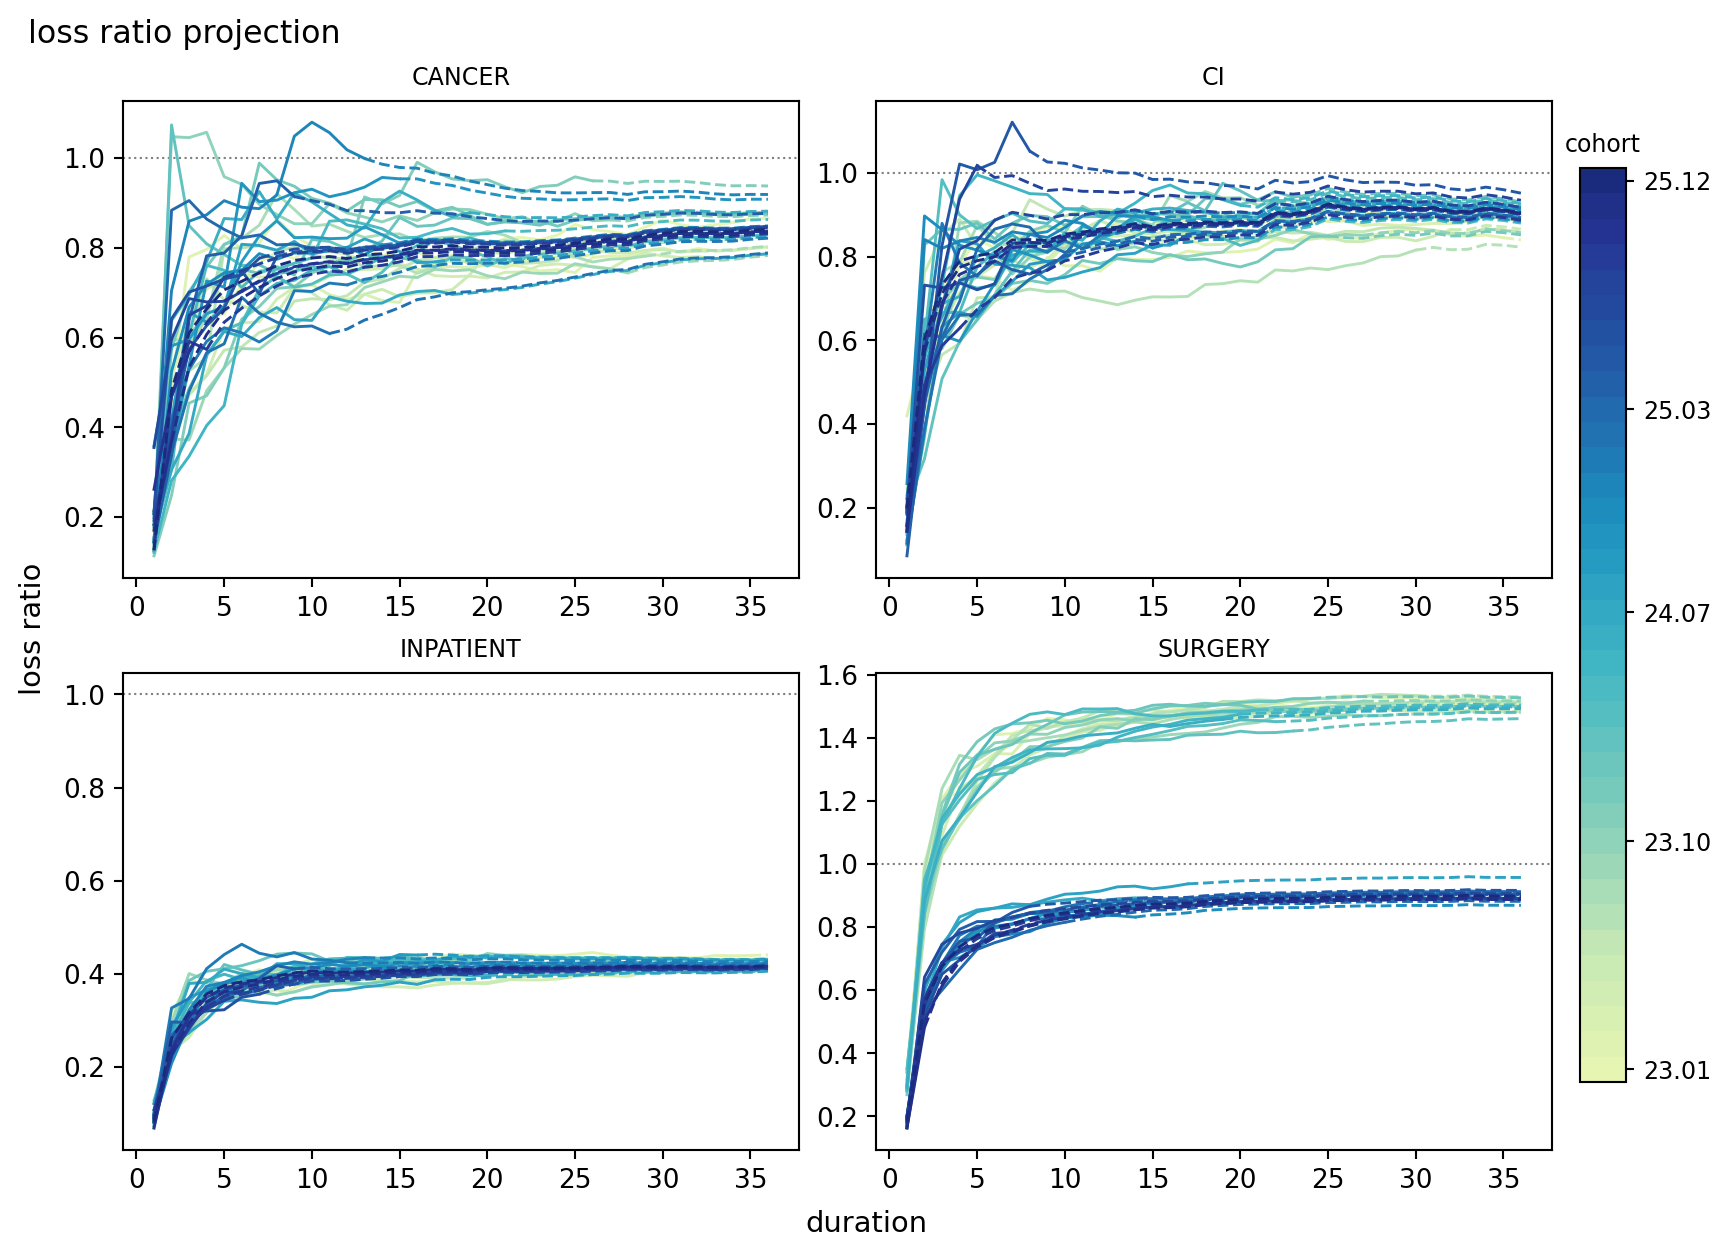
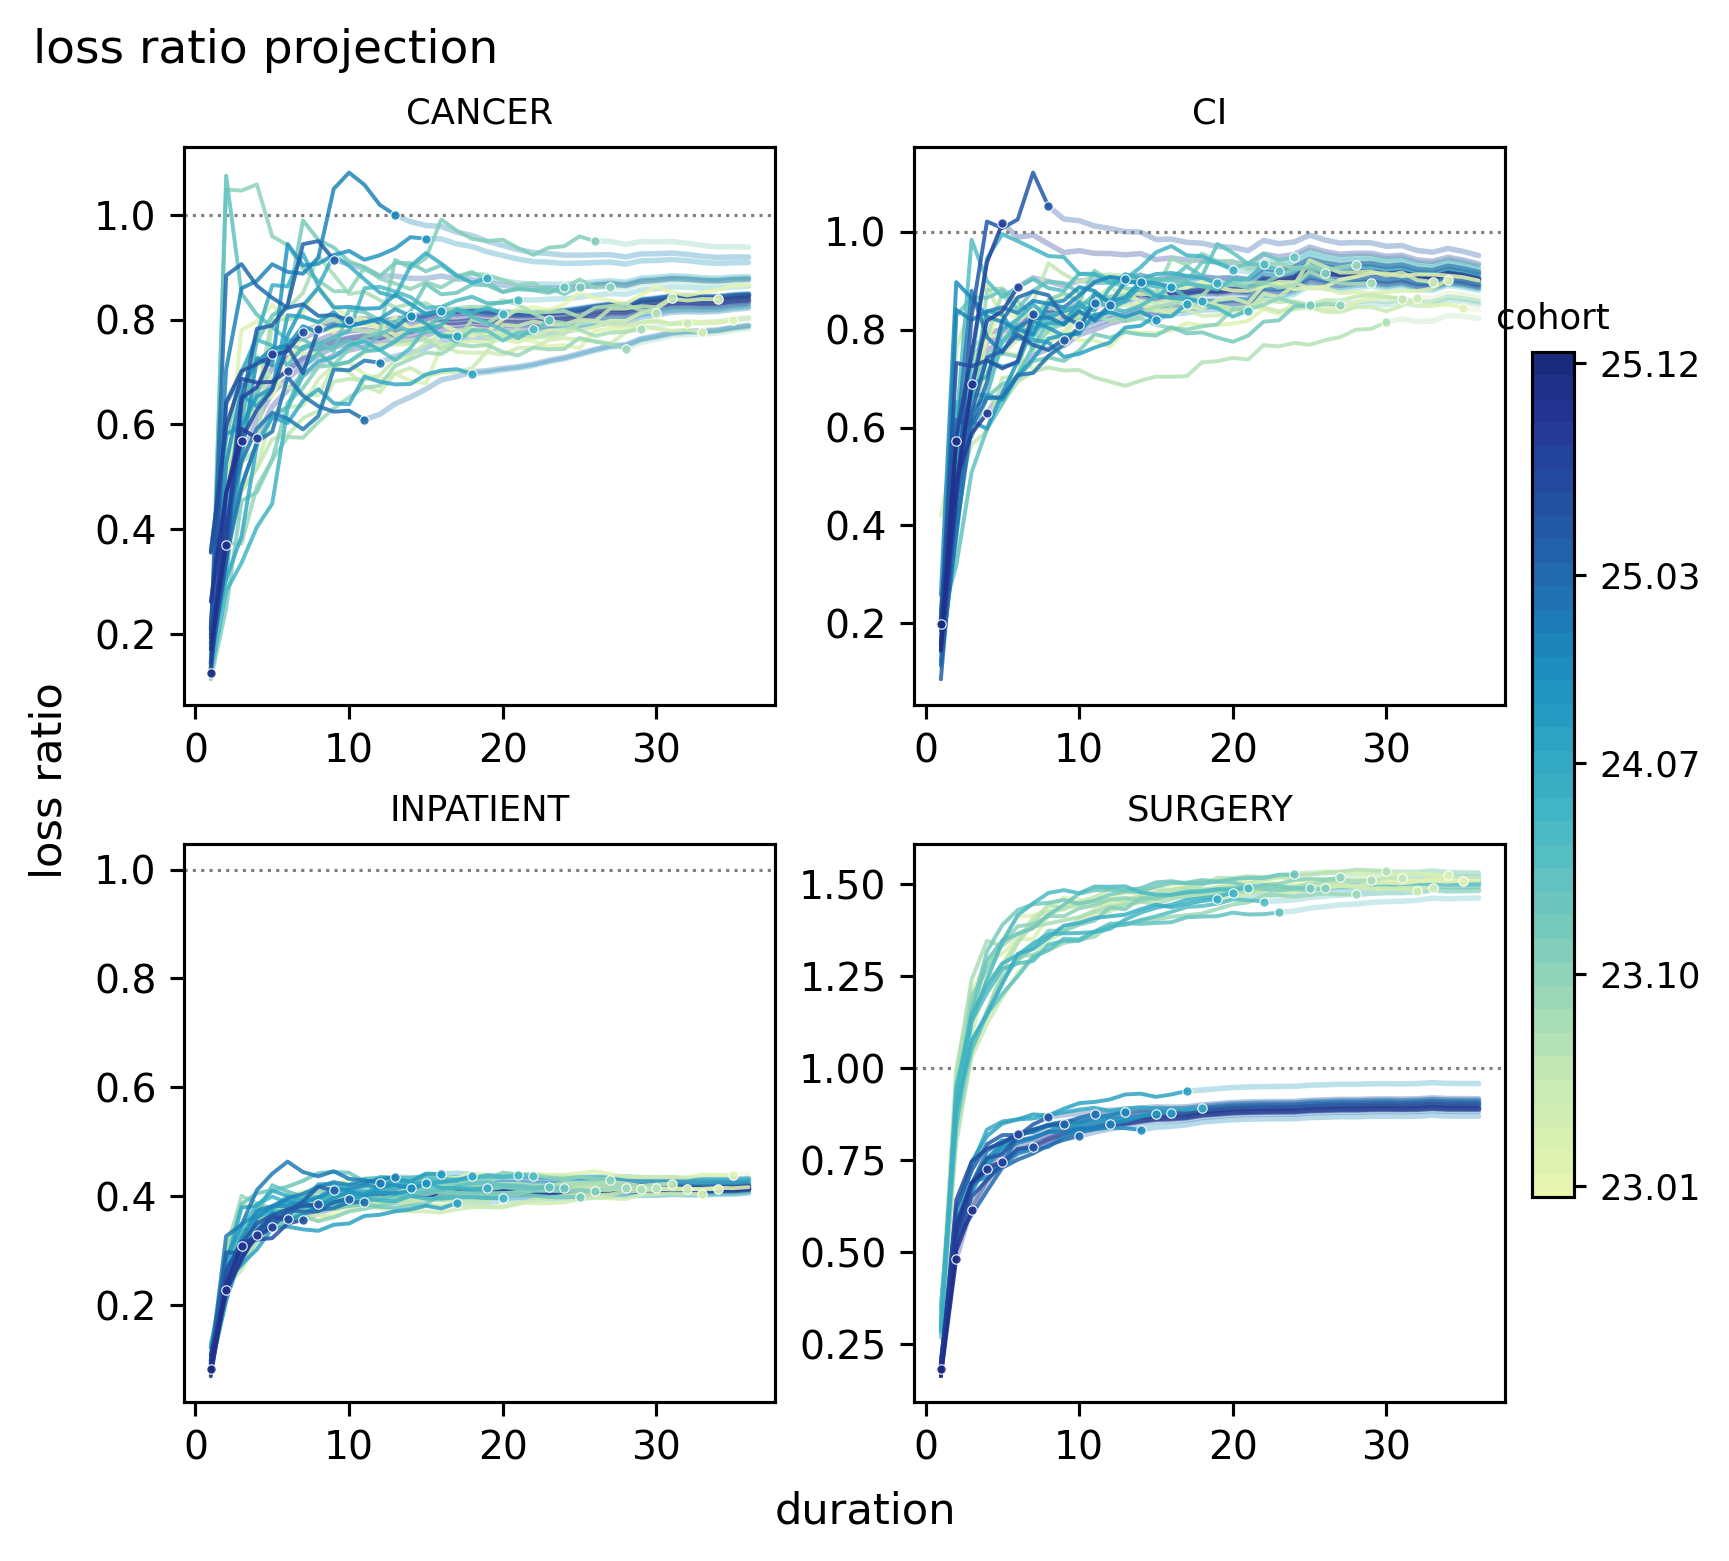
style: draw the projected tail as a faded continuation with a frontier dot
The per-cohort projection plot drew the projected portion dashed, which piled
into a busy texture across many overlapping cohorts. Draw it as a translucent
same-colour continuation with a small frontier dot marking where observation
ends, so the projection ghosts forward cleanly while the observed/projected
boundary stays legible.

diff --git a/src/lossratio/_plot/fit.py b/src/lossratio/_plot/fit.py
@@ -2,8 +2,9 @@
 
 Per-cohort cumulative-projection trajectories for ``LossFit`` /
 ``PremiumFit`` / ``RatioFit``: x = duration, y = the projected metric, the
-observed portion drawn solid and the projected tail dashed (split on the
-``source`` column), faceted by group. The cohort colour gradient mirrors
+observed portion drawn solid and the projected tail as a translucent
+continuation with a frontier dot (split on the ``source`` column), faceted by
+group. The cohort colour gradient mirrors
 ``Triangle.plot`` so a cohort keeps its colour across facets.
 """
 
@@ -49,7 +50,13 @@ def resolve_fit_metric(
 
 def _draw_fit_cohort(ax: Any, sub: pl.DataFrame, value_col: str, coh_color) -> None:
     """One facet: per-cohort cumulative trajectory, observed solid + projected
-    dashed (joined at the last observed cell)."""
+    as a translucent same-colour continuation, with a small dot marking the
+    observation frontier (where data ends and the projection begins).
+
+    The projected tail is drawn faded rather than dashed: with many overlapping
+    cohorts the dashed tails pile into a busy texture, whereas an alpha-faded
+    continuation ghosts forward cleanly while the frontier dot keeps the
+    observed/projected boundary legible."""
     for g in sub.partition_by("cohort", maintain_order=True):
         gg = g.sort("duration")
         x = gg["duration"].to_numpy()
@@ -59,18 +66,25 @@ def _draw_fit_cohort(ax: Any, sub: pl.DataFrame, value_col: str, coh_color) -> N
 
         obs = np.array([s == "observed" for s in src])
         # Solid over the observed cells (gaps become NaN, which matplotlib skips).
-        ax.plot(x, np.where(obs, y, np.nan), color=color, linewidth=1.1, zorder=2)
+        ax.plot(x, np.where(obs, y, np.nan), color=color, linewidth=1.0,
+                alpha=0.85, zorder=2, solid_capstyle="round")
 
-        # Dashed projected tail, started at the last observed cell so the two
-        # segments join visually.
+        # Faded projected tail, started at the last observed cell so the two
+        # segments join visually; a frontier dot marks the handoff.
         proj = ~obs & np.isfinite(y)
         if proj.any():
             obs_idx = np.where(obs)[0]
             start = int(obs_idx[-1]) if obs_idx.size else int(np.where(proj)[0][0])
             ax.plot(
-                x[start:], y[start:], color=color, linewidth=1.1,
-                linestyle="--", zorder=2,
+                x[start:], y[start:], color=color, linewidth=1.4,
+                alpha=0.32, zorder=1, solid_capstyle="round",
             )
+            if obs_idx.size:
+                ax.plot(
+                    x[obs_idx[-1]], y[obs_idx[-1]], marker="o", markersize=2.4,
+                    color=color, alpha=0.9, zorder=3,
+                    markeredgecolor="white", markeredgewidth=0.3,
+                )
 
 
 def plot_fit(

diff --git a/src/lossratio/estimators/loss.py b/src/lossratio/estimators/loss.py
@@ -1840,7 +1840,8 @@ class LossFit:
         figsize: tuple[float, float] | None = None,
     ) -> Any:
         """Per-cohort cumulative-projection trajectories, faceted by group --
-        the observed portion solid, the projected tail dashed. ``metric`` is
+        the observed portion solid, the projected tail a translucent
+        continuation with a frontier dot. ``metric`` is
         ``"loss"`` (default; cumulative projected loss) or ``"ratio"`` (the
         projected loss ratio)."""
         from .._plot.fit import plot_fit, resolve_fit_metric

diff --git a/src/lossratio/estimators/premium.py b/src/lossratio/estimators/premium.py
@@ -706,7 +706,8 @@ class PremiumFit:
         figsize: tuple[float, float] | None = None,
     ) -> Any:
         """Per-cohort cumulative-projection trajectories, faceted by group --
-        the observed portion solid, the projected tail dashed. ``metric`` is
+        the observed portion solid, the projected tail a translucent
+        continuation with a frontier dot. ``metric`` is
         ``"premium"`` (the projected cumulative premium)."""
         from .._plot.fit import plot_fit, resolve_fit_metric
 

diff --git a/src/lossratio/estimators/ratio.py b/src/lossratio/estimators/ratio.py
@@ -341,7 +341,8 @@ class RatioFit:
         figsize: tuple[float, float] | None = None,
     ) -> Any:
         """Per-cohort cumulative-projection trajectories, faceted by group --
-        the observed portion solid, the projected tail dashed. ``metric`` is
+        the observed portion solid, the projected tail a translucent
+        continuation with a frontier dot. ``metric`` is
         ``"ratio"`` (default; the projected loss ratio), ``"loss"``, or
         ``"premium"``."""
         from .._plot.fit import plot_fit, resolve_fit_metric

diff --git a/tests/test_fit_vis.py b/tests/test_fit_vis.py
@@ -3,7 +3,8 @@
 
 ``.predict()`` is a focused projection surface (cohort x duration cells with
 the projected metric(s) + ``source``); ``.plot()`` renders the per-cohort
-cumulative-projection trajectories (observed solid, projected dashed). Visual
+cumulative-projection trajectories (observed solid, projected a faded
+continuation). Visual
 parity is out of scope -- these assert the data contract and that the figure
 renders for each rung / metric / grouping.
 """